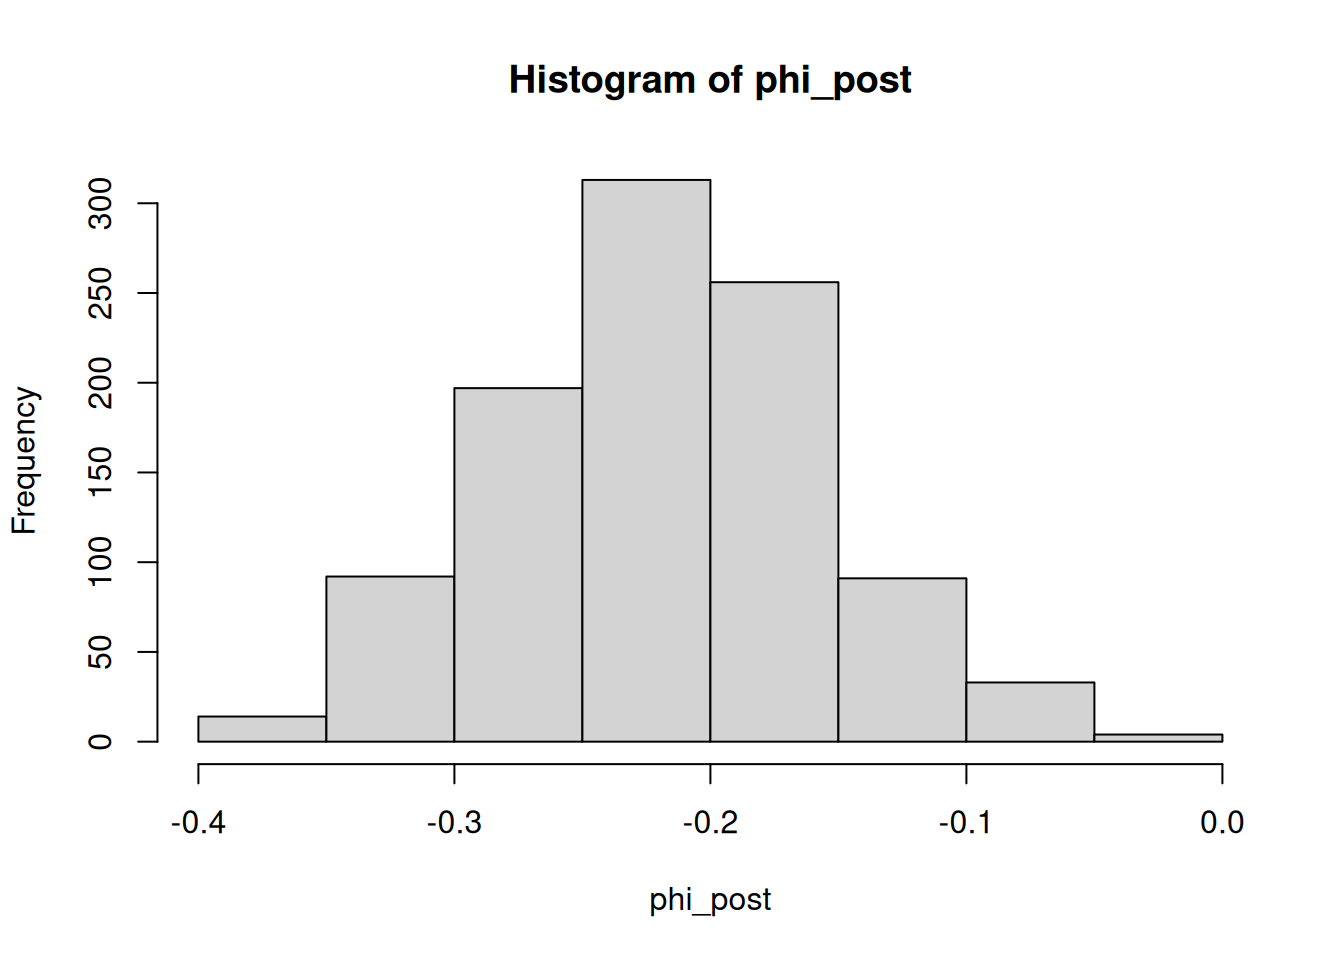
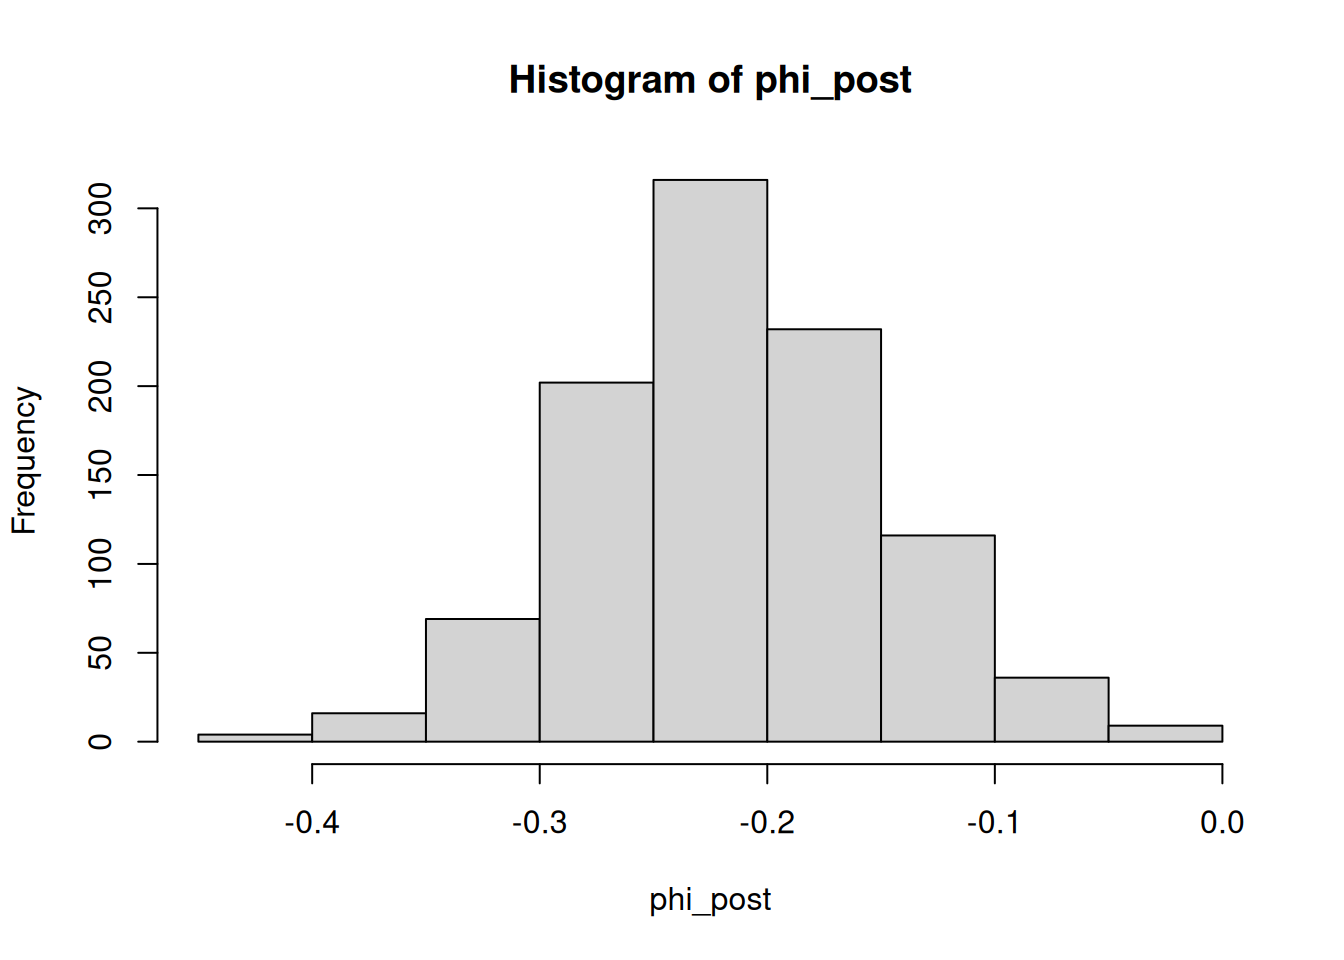
Agrega ejemplo 16/04

diff --git a/docs/unparametro.html b/docs/unparametro.html
@@ -171,6 +171,7 @@ pre > code.sourceCode > span > a:first-child::before { text-decoration: underlin
   <ul>
   <li><a href="#ejemplo-1" id="toc-ejemplo-1" class="nav-link active" data-scroll-target="#ejemplo-1"><span class="header-section-number">2.1</span> Ejemplo 1</a></li>
   <li><a href="#primera-previa" id="toc-primera-previa" class="nav-link" data-scroll-target="#primera-previa"><span class="header-section-number">2.2</span> Primera previa</a></li>
+  <li><a href="#ejemplo-2" id="toc-ejemplo-2" class="nav-link" data-scroll-target="#ejemplo-2"><span class="header-section-number">2.3</span> Ejemplo 2</a></li>
   </ul>
 </nav>
     </div>
@@ -242,14 +243,14 @@ pre > code.sourceCode > span > a:first-child::before { text-decoration: underlin
 <div class="sourceCode cell-code" id="cb8"><pre class="sourceCode r code-with-copy"><code class="sourceCode r"><span id="cb8-1"><a href="#cb8-1" aria-hidden="true" tabindex="-1"></a><span class="fu">quantile</span>(theta_post,<span class="at">probs =</span> <span class="fu">c</span>(<span class="fl">0.025</span>,<span class="fl">0.975</span>))</span></code><button title="Copy to Clipboard" class="code-copy-button"><i class="bi"></i></button></pre></div>
 <div class="cell-output cell-output-stdout">
 <pre><code>     2.5%     97.5% 
-0.4167990 0.4774184 </code></pre>
+0.4149379 0.4792422 </code></pre>
 </div>
 </div>
 <p>y un estimador puntual bayesiano para <span class="math inline">\(\theta\)</span>:</p>
 <div class="cell">
 <div class="sourceCode cell-code" id="cb10"><pre class="sourceCode r code-with-copy"><code class="sourceCode r"><span id="cb10-1"><a href="#cb10-1" aria-hidden="true" tabindex="-1"></a><span class="fu">median</span>(theta_post)</span></code><button title="Copy to Clipboard" class="code-copy-button"><i class="bi"></i></button></pre></div>
 <div class="cell-output cell-output-stdout">
-<pre><code>[1] 0.4458801</code></pre>
+<pre><code>[1] 0.4459606</code></pre>
 </div>
 </div>
 <p>Por otro lado también podemos usar la reparametrización <span class="math inline">\(\phi=\log\left(\frac{\theta}{1-\theta}\right)\)</span> para aplicar la aproximación normal sobre un parámetro totalmente definido en <span class="math inline">\(\mathbb R\)</span>:</p>
@@ -270,11 +271,11 @@ pre > code.sourceCode > span > a:first-child::before { text-decoration: underlin
 <span id="cb14-4"><a href="#cb14-4" aria-hidden="true" tabindex="-1"></a></span>
 <span id="cb14-5"><a href="#cb14-5" aria-hidden="true" tabindex="-1"></a><span class="fu">logistico</span>(phi_mean<span class="sc">+</span><span class="fu">qnorm</span>(<span class="fl">0.975</span>)<span class="sc">*</span>phi_sd)</span></code><button title="Copy to Clipboard" class="code-copy-button"><i class="bi"></i></button></pre></div>
 <div class="cell-output cell-output-stdout">
-<pre><code>[1] 0.4762229</code></pre>
+<pre><code>[1] 0.4783524</code></pre>
 </div>
 <div class="sourceCode cell-code" id="cb16"><pre class="sourceCode r code-with-copy"><code class="sourceCode r"><span id="cb16-1"><a href="#cb16-1" aria-hidden="true" tabindex="-1"></a><span class="fu">logistico</span>(phi_mean<span class="sc">-</span><span class="fu">qnorm</span>(<span class="fl">0.975</span>)<span class="sc">*</span>phi_sd)</span></code><button title="Copy to Clipboard" class="code-copy-button"><i class="bi"></i></button></pre></div>
 <div class="cell-output cell-output-stdout">
-<pre><code>[1] 0.4155781</code></pre>
+<pre><code>[1] 0.4148551</code></pre>
 </div>
 </div>
 <p>También podemos hacer inferencia sobre la razón niña/niño (<span class="math inline">\(\theta/(1-\theta)\)</span>):</p>
@@ -283,7 +284,7 @@ pre > code.sourceCode > span > a:first-child::before { text-decoration: underlin
 <span id="cb18-2"><a href="#cb18-2" aria-hidden="true" tabindex="-1"></a><span class="fu">quantile</span>(razon_post,<span class="at">probs =</span> <span class="fu">c</span>(<span class="fl">0.025</span>,<span class="fl">0.975</span>))</span></code><button title="Copy to Clipboard" class="code-copy-button"><i class="bi"></i></button></pre></div>
 <div class="cell-output cell-output-stdout">
 <pre><code>     2.5%     97.5% 
-0.7146746 0.9135768 </code></pre>
+0.7092203 0.9202787 </code></pre>
 </div>
 </div>
 <p>La pregunta de investigación puede ser contestada al calcular lo siguiente e interpretarlo de forma apropiada según lo comentado en clase:</p>
@@ -298,6 +299,64 @@ pre > code.sourceCode > span > a:first-child::before { text-decoration: underlin
 <div class="sourceCode cell-code" id="cb22"><pre class="sourceCode r code-with-copy"><code class="sourceCode r"><span id="cb22-1"><a href="#cb22-1" aria-hidden="true" tabindex="-1"></a><span class="dv">1</span><span class="sc">/</span><span class="fu">pbeta</span>(<span class="fl">0.485</span>,<span class="at">shape1 =</span> a_post,<span class="at">shape2 =</span> b_post,<span class="at">lower.tail =</span> F)</span></code><button title="Copy to Clipboard" class="code-copy-button"><i class="bi"></i></button></pre></div>
 <div class="cell-output cell-output-stdout">
 <pre><code>[1] 139.392</code></pre>
+</div>
+</div>
+</section>
+<section id="ejemplo-2" class="level2" data-number="2.3">
+<h2 data-number="2.3" class="anchored" data-anchor-id="ejemplo-2"><span class="header-section-number">2.3</span> Ejemplo 2</h2>
+<p>Desarrollamos una solución alternativa al ejemplo en la sección 3.2 del Albert:</p>
+<p>En este caso se tiene datos correspondientes a las diferencias entre los resultados de partidos de fútbol americano y “point spreads”:</p>
+<div class="cell">
+<div class="sourceCode cell-code" id="cb24"><pre class="sourceCode r code-with-copy"><code class="sourceCode r"><span id="cb24-1"><a href="#cb24-1" aria-hidden="true" tabindex="-1"></a><span class="fu">library</span>(LearnBayes)</span>
+<span id="cb24-2"><a href="#cb24-2" aria-hidden="true" tabindex="-1"></a><span class="fu">data</span>(<span class="st">"footballscores"</span>)</span>
+<span id="cb24-3"><a href="#cb24-3" aria-hidden="true" tabindex="-1"></a><span class="fu">attach</span>(footballscores)</span>
+<span id="cb24-4"><a href="#cb24-4" aria-hidden="true" tabindex="-1"></a>d <span class="ot">&lt;-</span> favorite<span class="sc">-</span>underdog<span class="sc">-</span>spread</span></code><button title="Copy to Clipboard" class="code-copy-button"><i class="bi"></i></button></pre></div>
+</div>
+<p>Si asumimos un modelo normal en las diferencias con media 0 y varianza <span class="math inline">\(\sigma^2\)</span>, el estadístico suficiente respectivo es:</p>
+<div class="cell">
+<div class="sourceCode cell-code" id="cb25"><pre class="sourceCode r code-with-copy"><code class="sourceCode r"><span id="cb25-1"><a href="#cb25-1" aria-hidden="true" tabindex="-1"></a>v <span class="ot">&lt;-</span> <span class="fu">sum</span>(d<span class="sc">^</span><span class="dv">2</span>)</span>
+<span id="cb25-2"><a href="#cb25-2" aria-hidden="true" tabindex="-1"></a>n <span class="ot">&lt;-</span> <span class="fu">length</span>(d)</span>
+<span id="cb25-3"><a href="#cb25-3" aria-hidden="true" tabindex="-1"></a><span class="fu">show</span>(v)</span></code><button title="Copy to Clipboard" class="code-copy-button"><i class="bi"></i></button></pre></div>
+<div class="cell-output cell-output-stdout">
+<pre><code>[1] 128902</code></pre>
+</div>
+</div>
+<p>Asumiendo una distribución previa <span class="math inline">\(Inv-\chi^2(v_0=1, \sigma^2_0=1)\)</span>, según lo visto en clase, la probabilidad posterior de <span class="math inline">\(\sigma^2\)</span> es <span class="math inline">\(Inv-\chi^2(v_1=n+1, \sigma^2_1=nv+1)\)</span> en donde:</p>
+<div class="cell">
+<div class="sourceCode cell-code" id="cb27"><pre class="sourceCode r code-with-copy"><code class="sourceCode r"><span id="cb27-1"><a href="#cb27-1" aria-hidden="true" tabindex="-1"></a>v1 <span class="ot">&lt;-</span> n<span class="sc">+</span><span class="dv">1</span></span>
+<span id="cb27-2"><a href="#cb27-2" aria-hidden="true" tabindex="-1"></a>sigma1 <span class="ot">&lt;-</span> <span class="fu">sqrt</span>(n<span class="sc">*</span>v<span class="sc">+</span><span class="dv">1</span>) </span></code><button title="Copy to Clipboard" class="code-copy-button"><i class="bi"></i></button></pre></div>
+</div>
+<p>Simulamos una muestra de tamaño 1000 de la distribución posterior de <span class="math inline">\(\sigma^2\)</span>. Noten que la simulación usa las propiedades de una chi-cuadrado inversa.</p>
+<div class="cell">
+<div class="sourceCode cell-code" id="cb28"><pre class="sourceCode r code-with-copy"><code class="sourceCode r"><span id="cb28-1"><a href="#cb28-1" aria-hidden="true" tabindex="-1"></a>Xpost <span class="ot">&lt;-</span> <span class="fu">rchisq</span>(<span class="at">n =</span> <span class="dv">1000</span>,<span class="at">df =</span> n<span class="sc">+</span><span class="dv">1</span>) </span>
+<span id="cb28-2"><a href="#cb28-2" aria-hidden="true" tabindex="-1"></a>Z <span class="ot">&lt;-</span> <span class="dv">1</span><span class="sc">/</span>Xpost</span>
+<span id="cb28-3"><a href="#cb28-3" aria-hidden="true" tabindex="-1"></a>sigma2_post <span class="ot">&lt;-</span> sigma1<span class="sc">*</span>Z</span></code><button title="Copy to Clipboard" class="code-copy-button"><i class="bi"></i></button></pre></div>
+</div>
+<p>O bien pueden usar la siguiente función que simula las muestras directamente:</p>
+<div class="cell">
+<div class="sourceCode cell-code" id="cb29"><pre class="sourceCode r code-with-copy"><code class="sourceCode r"><span id="cb29-1"><a href="#cb29-1" aria-hidden="true" tabindex="-1"></a><span class="fu">library</span>(LaplacesDemon)</span></code><button title="Copy to Clipboard" class="code-copy-button"><i class="bi"></i></button></pre></div>
+<div class="cell-output cell-output-stderr">
+<pre><code>
+Attaching package: 'LaplacesDemon'</code></pre>
+</div>
+<div class="cell-output cell-output-stderr">
+<pre><code>The following object is masked from 'package:LearnBayes':
+
+    rdirichlet</code></pre>
+</div>
+<div class="sourceCode cell-code" id="cb32"><pre class="sourceCode r code-with-copy"><code class="sourceCode r"><span id="cb32-1"><a href="#cb32-1" aria-hidden="true" tabindex="-1"></a>sigma2_post2 <span class="ot">&lt;-</span> <span class="fu">rinvchisq</span>(<span class="at">n =</span> <span class="dv">1000</span>,<span class="at">df =</span> v1,<span class="at">scale =</span> sigma1<span class="sc">/</span>v1)</span></code><button title="Copy to Clipboard" class="code-copy-button"><i class="bi"></i></button></pre></div>
+</div>
+<p>Noten que el parametro de escala en esta función hay que dividirlo por los grados de libertad para que sea igual al que definimos en clase. En ambos casos se puede calcular un intervalo de credibilidad al 95% y un estimador puntual de <span class="math inline">\(\sigma^2\)</span>:</p>
+<div class="cell">
+<div class="sourceCode cell-code" id="cb33"><pre class="sourceCode r code-with-copy"><code class="sourceCode r"><span id="cb33-1"><a href="#cb33-1" aria-hidden="true" tabindex="-1"></a><span class="fu">quantile</span>(sigma2_post, <span class="at">probs =</span> <span class="fu">c</span>(<span class="fl">0.025</span>, <span class="fl">0.5</span>, <span class="fl">0.975</span>))</span></code><button title="Copy to Clipboard" class="code-copy-button"><i class="bi"></i></button></pre></div>
+<div class="cell-output cell-output-stdout">
+<pre><code>    2.5%      50%    97.5% 
+12.43946 13.85911 15.52504 </code></pre>
+</div>
+<div class="sourceCode cell-code" id="cb35"><pre class="sourceCode r code-with-copy"><code class="sourceCode r"><span id="cb35-1"><a href="#cb35-1" aria-hidden="true" tabindex="-1"></a><span class="fu">quantile</span>(sigma2_post2, <span class="at">probs =</span> <span class="fu">c</span>(<span class="fl">0.025</span>, <span class="fl">0.5</span>, <span class="fl">0.975</span>))</span></code><button title="Copy to Clipboard" class="code-copy-button"><i class="bi"></i></button></pre></div>
+<div class="cell-output cell-output-stdout">
+<pre><code>    2.5%      50%    97.5% 
+12.49812 13.84956 15.41044 </code></pre>
 </div>
 </div>
 
